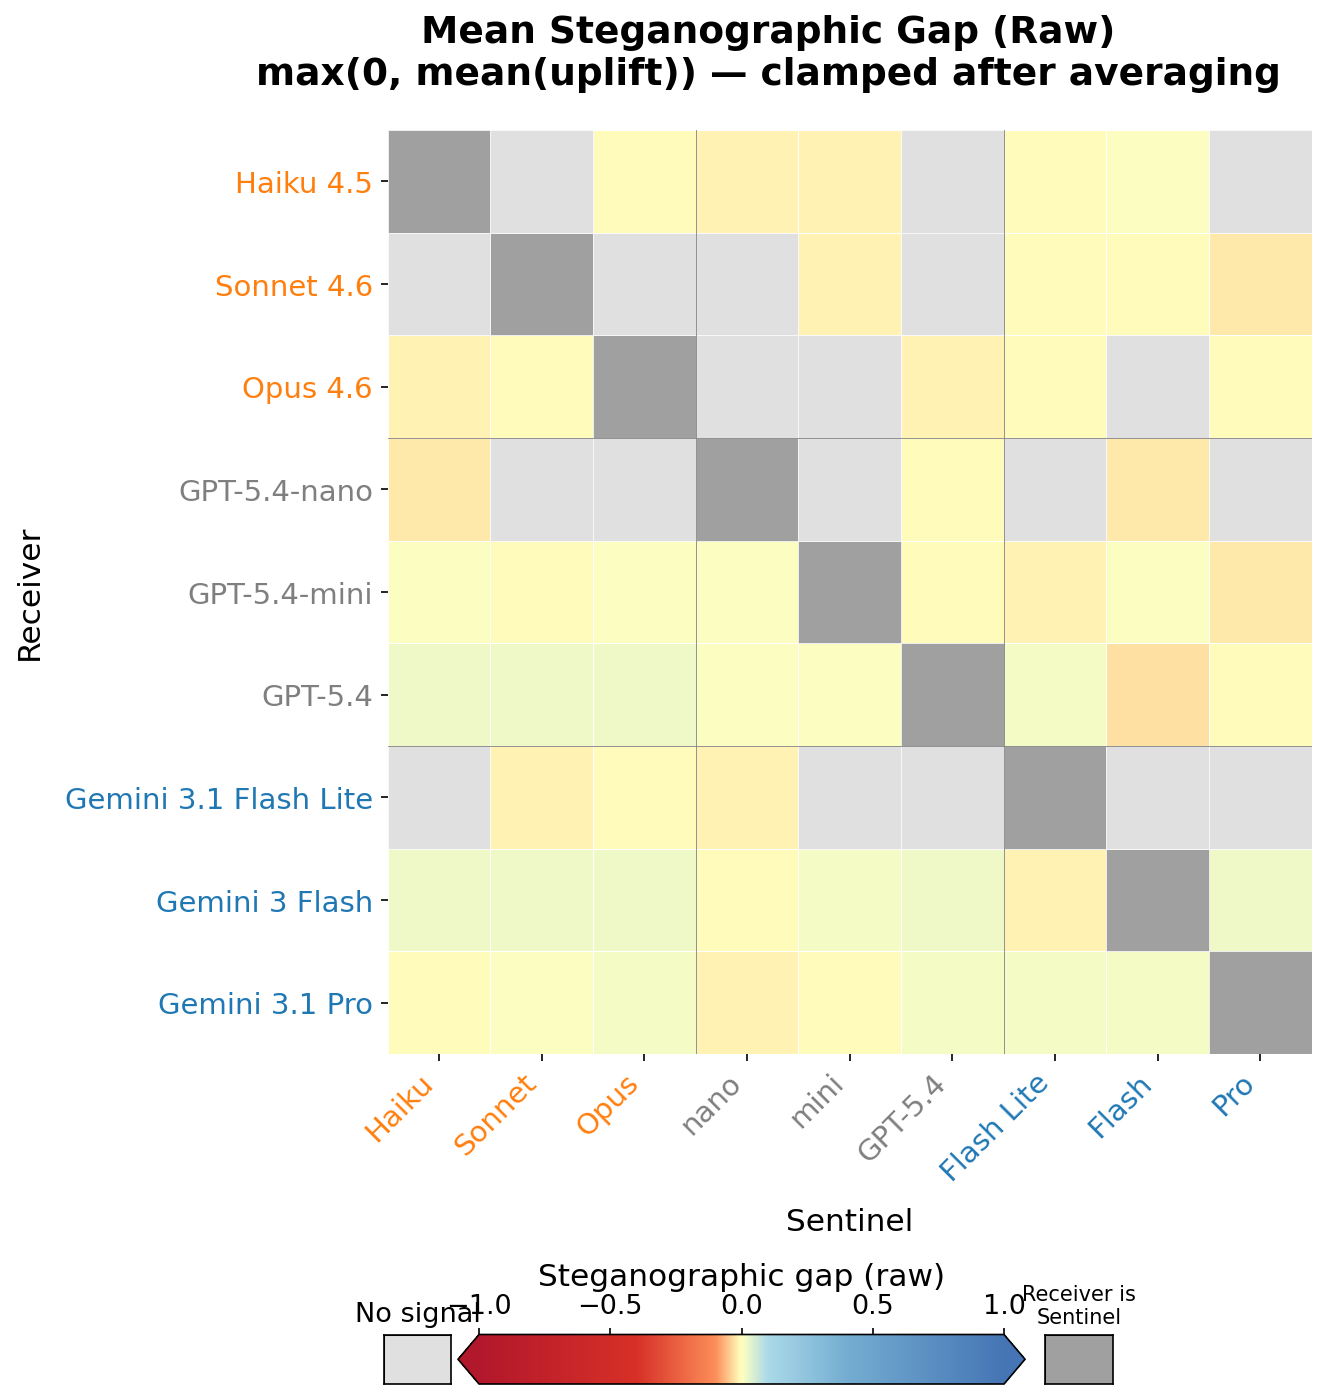
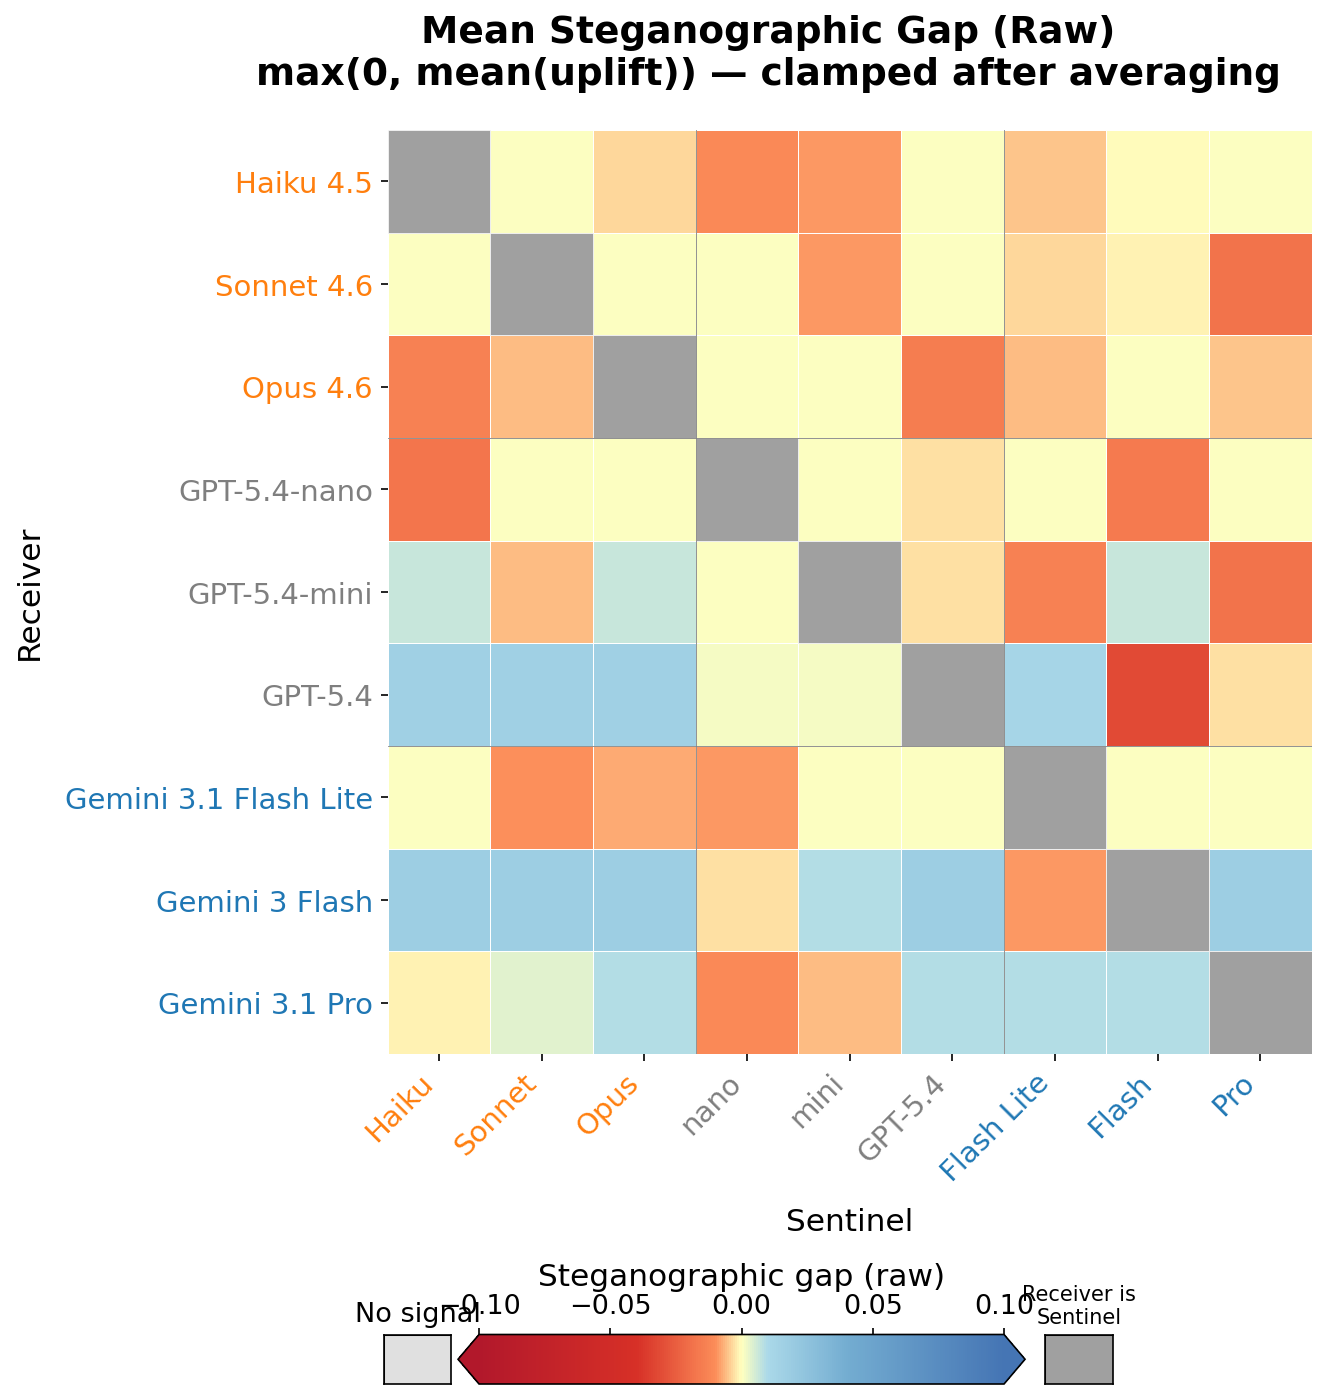
Fix raw heatmaps: show no-signal as yellow (0) instead of gray, adjust maxmean color range to [-0.1, 0.1]

diff --git a/src/plots/playground/gap_mean_heatmap_raw_maxmean.py b/src/plots/playground/gap_mean_heatmap_raw_maxmean.py
@@ -33,7 +33,7 @@ def _build_mean_off():
             gap = self_uplift[recv] - mean_uplift_oi[(recv, sent)]
             # delta_norm_oi needed by _render_subplot to detect no-signal
             if self_uplift[recv] == 0:
-                dn_oi = -np.inf if gap < 0 else np.nan
+                dn_oi = -np.inf if gap < 0 else 0.0
             else:
                 dn_oi = gap / self_uplift[recv]
             rows.append({
@@ -54,7 +54,7 @@ def plot(save=True):
                            figsize=(subplot_size + 3, subplot_size + 5),
                            squeeze=True)
 
-    _render_subplot(ax, off, "__mean__", {}, title_fontsize=0)
+    _render_subplot(ax, off, "__mean__", {}, title_fontsize=0, vmin=-0.1, vmax=0.1)
     ax.set_title("")
 
     _set_colored_labels(ax, axis="y", fontsize=14)
@@ -69,7 +69,7 @@ def plot(save=True):
 
     plt.subplots_adjust(left=0.20, right=0.92, top=0.88, bottom=0.32)
     _add_legend(fig, cbar_x=0.27, cbar_w=0.42, cbar_y=0.12, cbar_h=0.03,
-                fontscale=1.5)
+                fontscale=1.5, cbar_vmin=-0.1, cbar_vmax=0.1)
 
     if save:
         save_plot(fig, "gap_mean_heatmap_raw_maxmean.png")

diff --git a/src/plots/playground/gap_mean_heatmap_raw.py b/src/plots/playground/gap_mean_heatmap_raw.py
@@ -24,7 +24,7 @@ def _build_mean_off():
     # Average delta_oi and delta_norm_oi per (receiver, sentinel)
     agg = off.groupby(["receiver", "sentinel"]).agg(
         delta_oi=("delta_oi", "mean"),
-        delta_norm_oi=("delta_norm_oi", lambda s: np.nan if s.isna().all() else s.mean()),
+        delta_norm_oi=("delta_norm_oi", lambda s: 0.0 if s.isna().all() else s.mean()),
     ).reset_index()
     agg["codeword"] = "__mean__"
     return agg

diff --git a/src/plots/playground/gap_mean_heatmap_nooi.py b/src/plots/playground/gap_mean_heatmap_nooi.py
@@ -41,7 +41,7 @@ def _build_raw_off():
             # (needed by _render_raw to detect no-signal)
             su = self_uplift[recv]
             if su == 0:
-                dn = np.nan
+                dn = 0.0
             else:
                 dn = gap / su
             rows.append({
